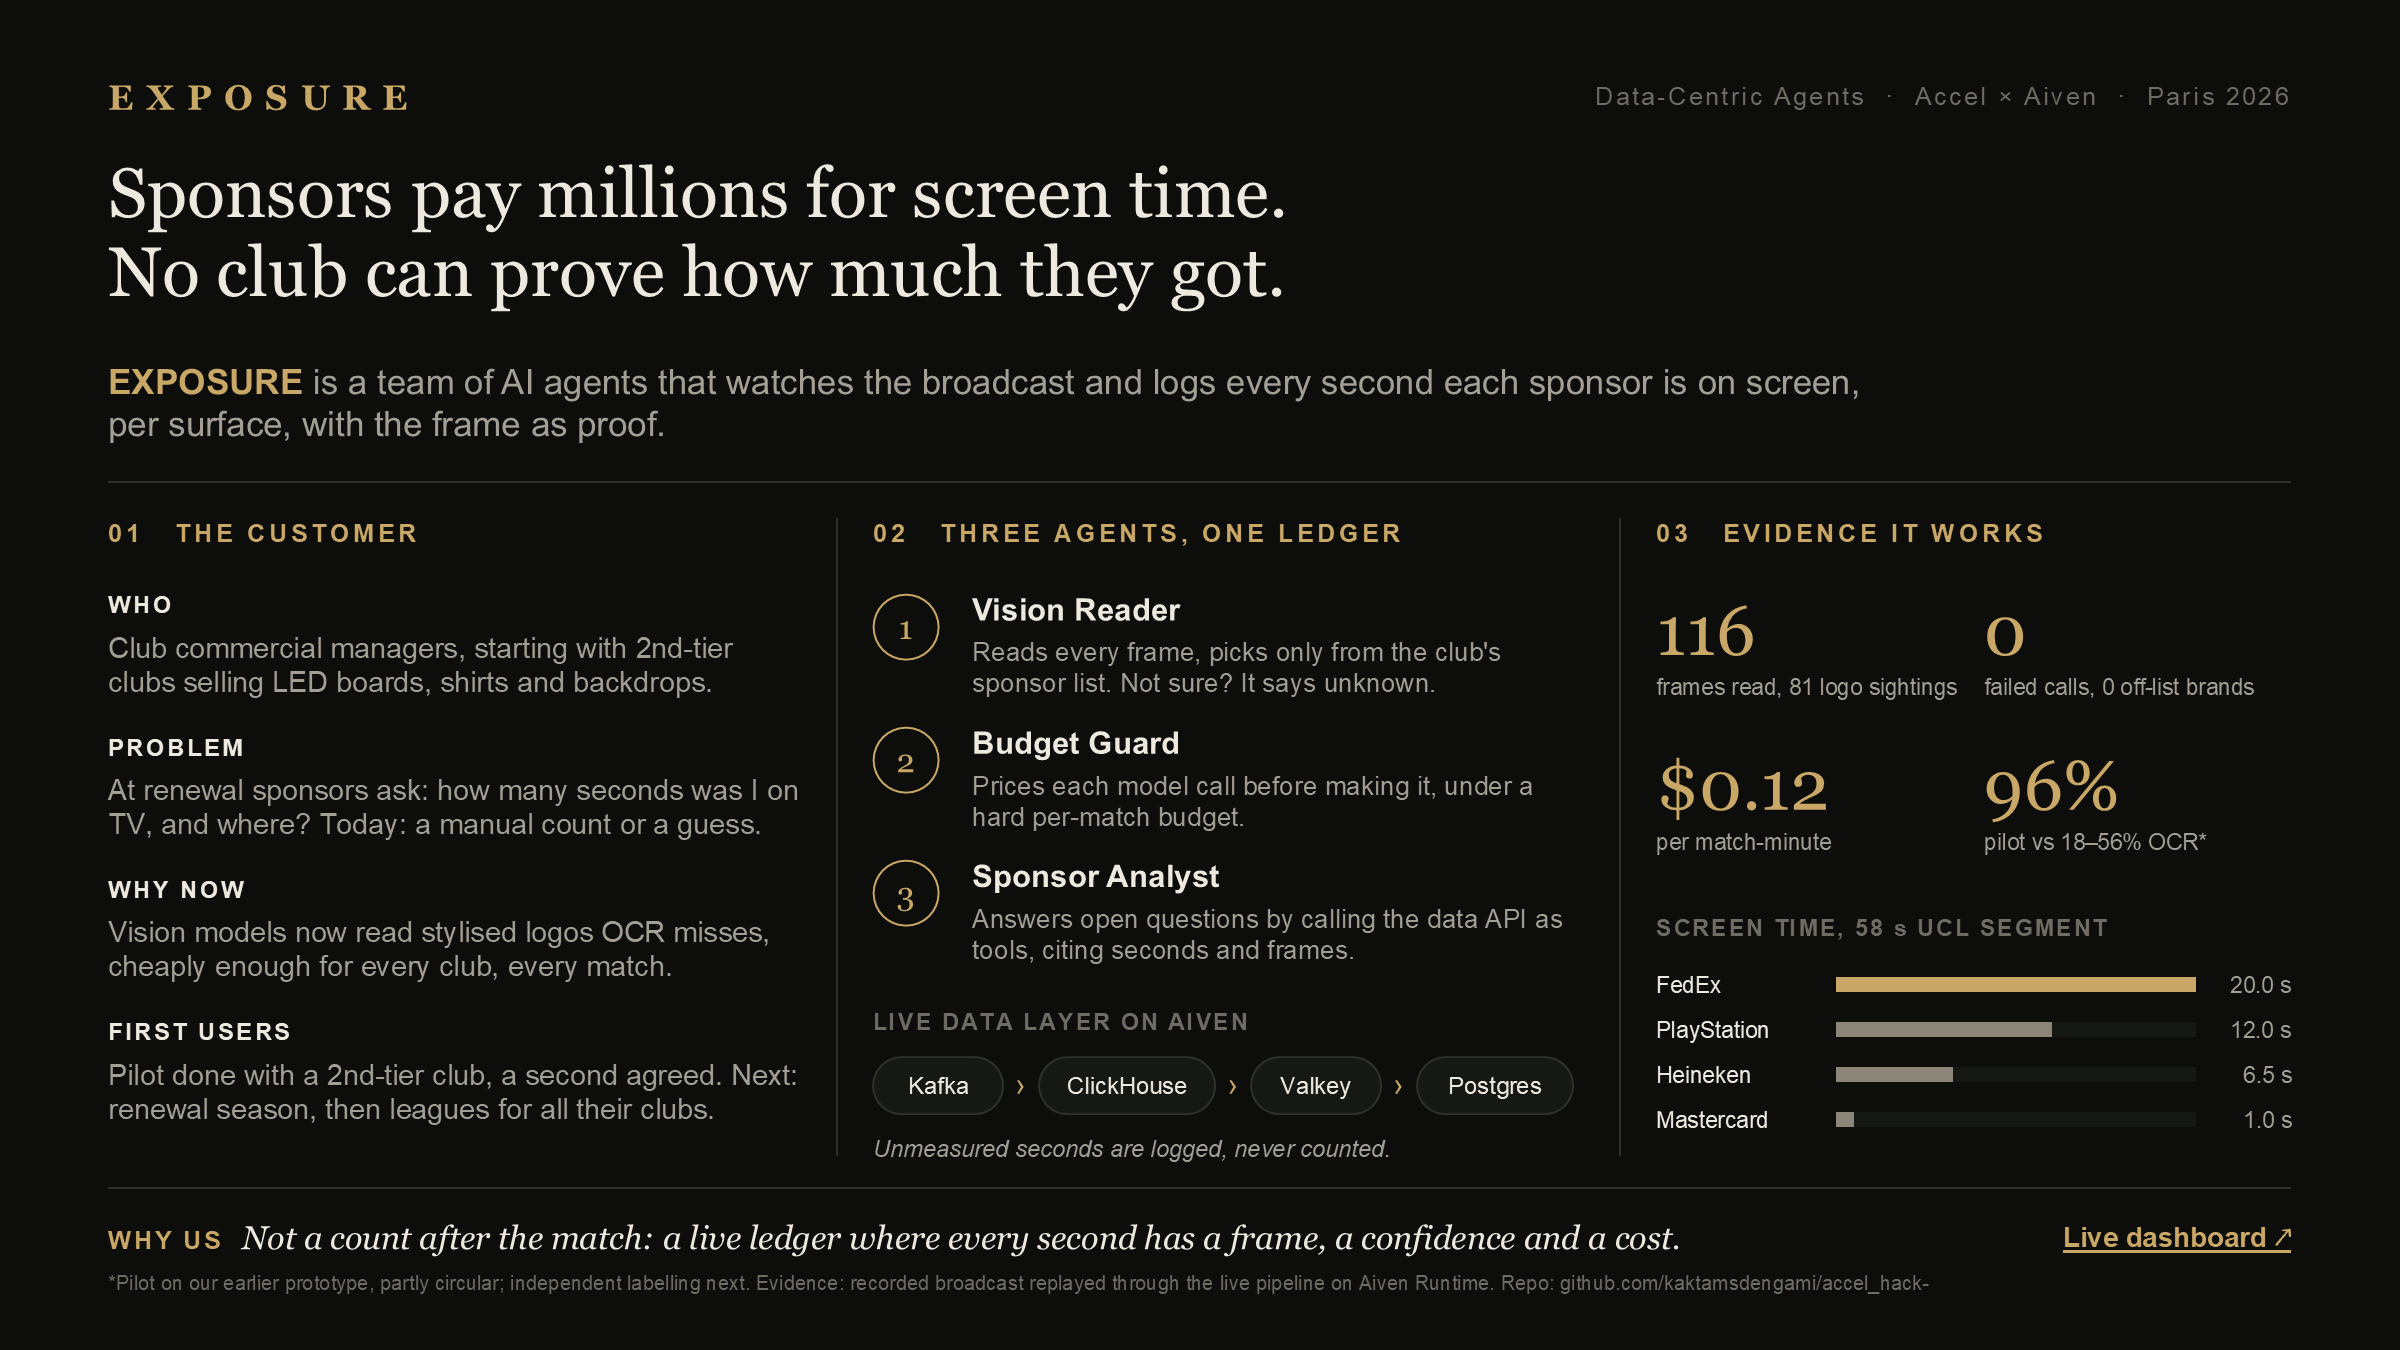
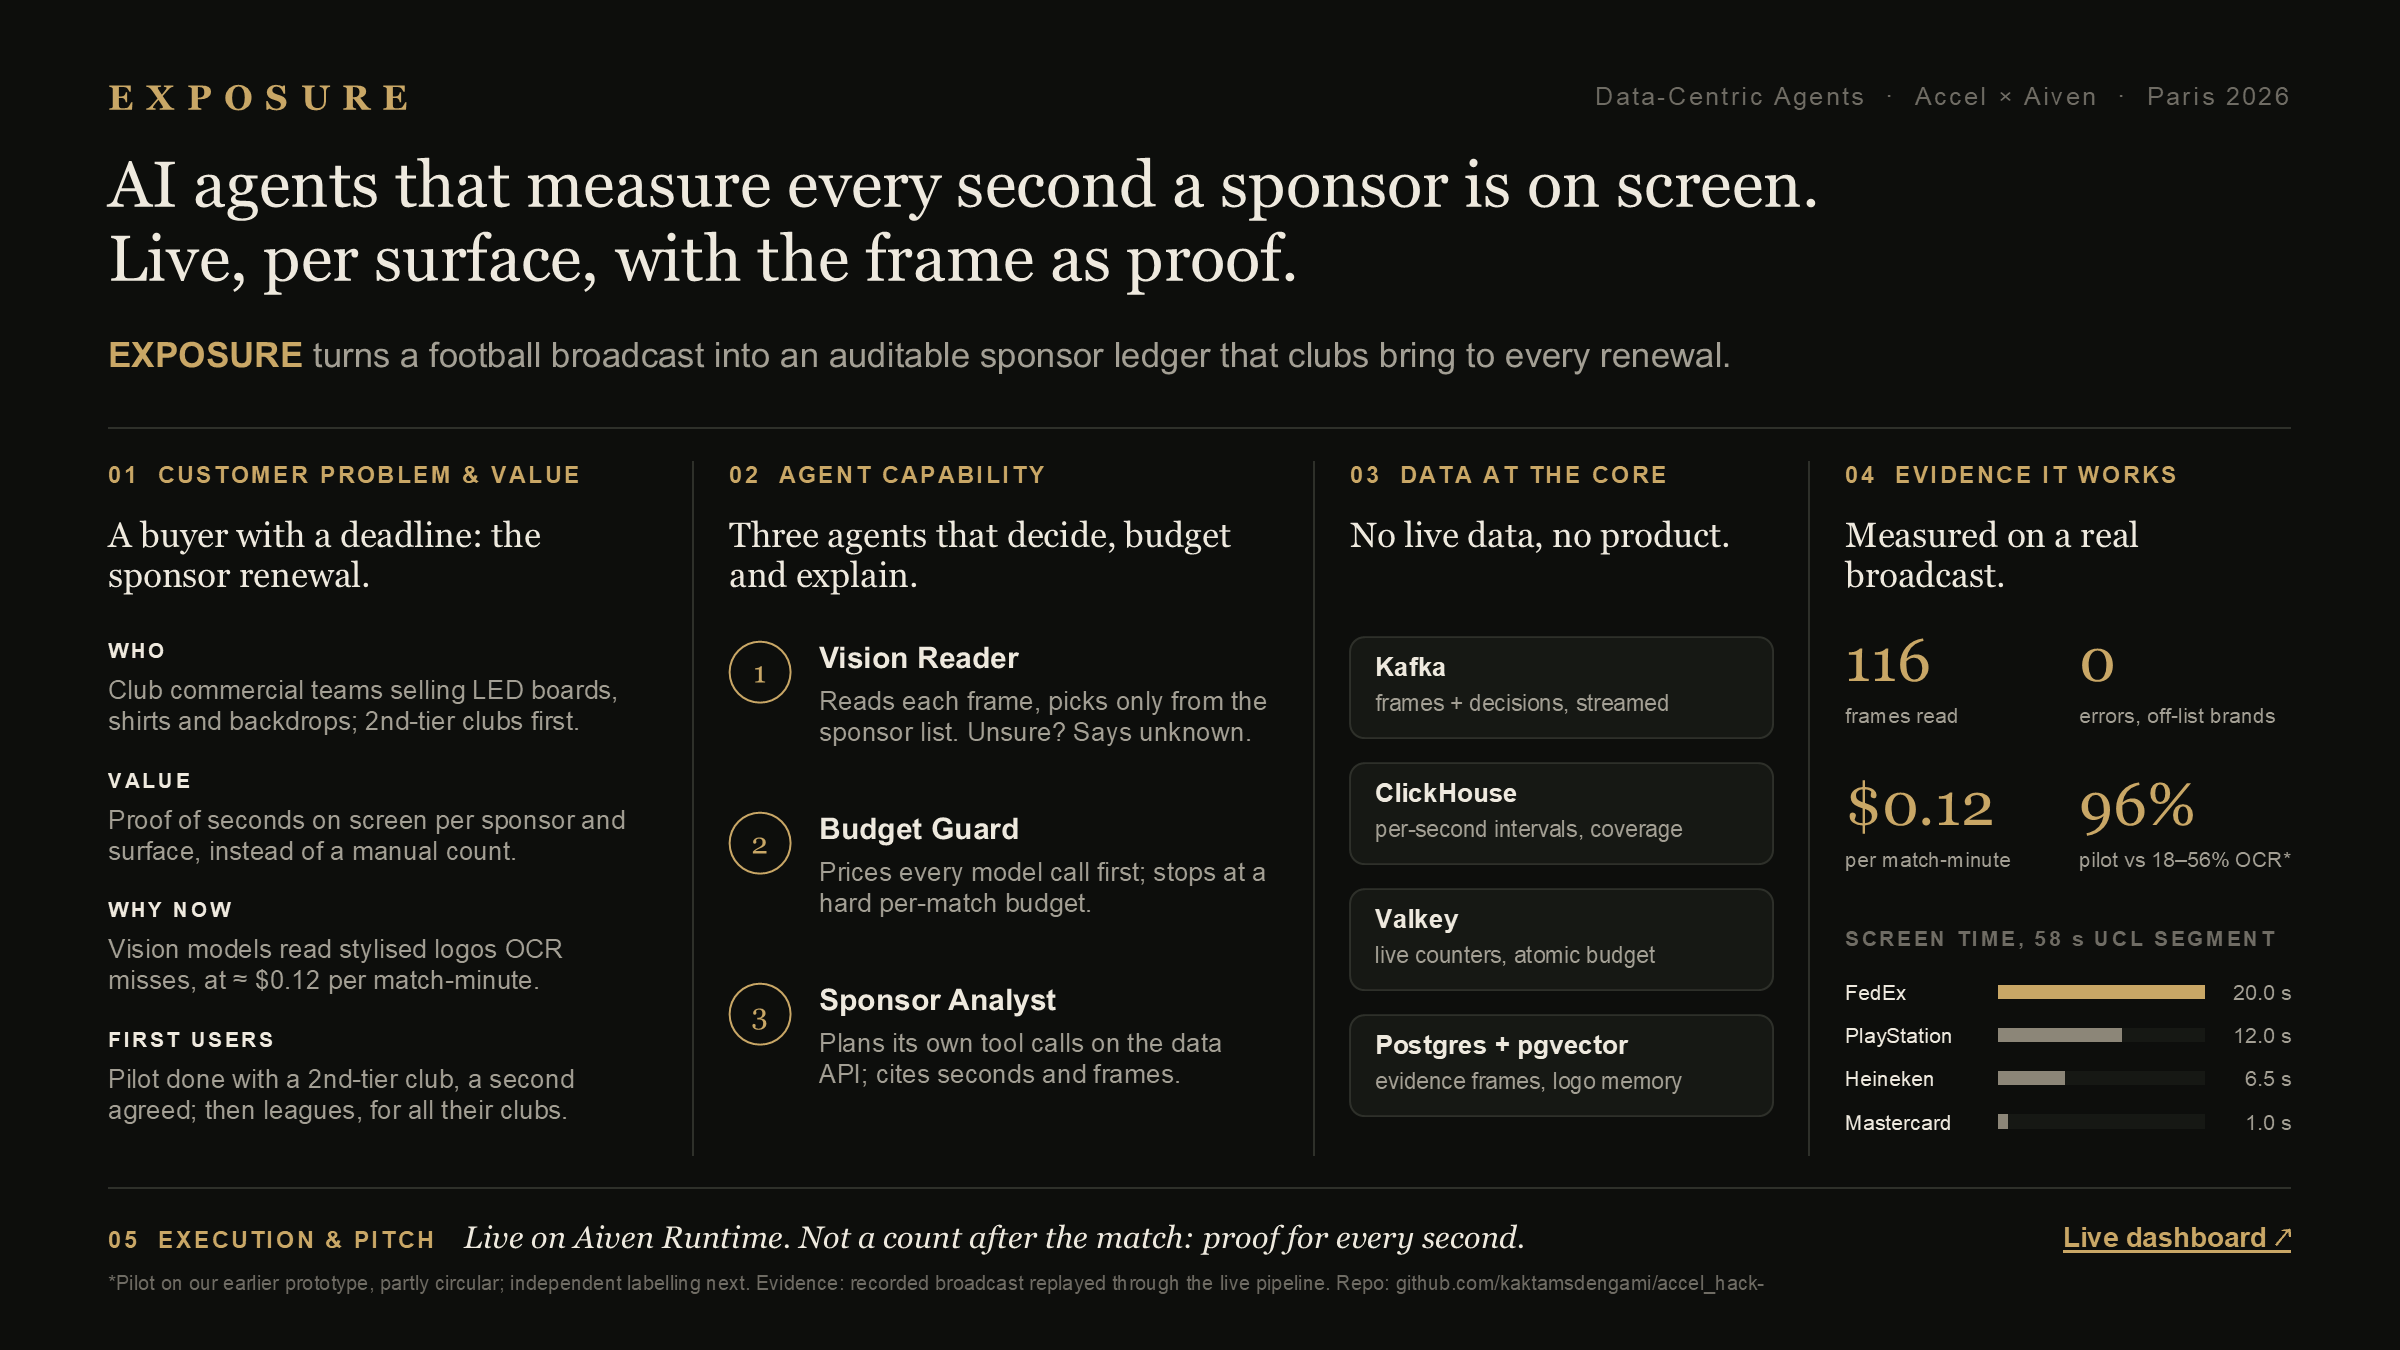
Pitch slide: one column per judging criterion, product-first headline (#60)

diff --git a/scripts/pitch_slide.js b/scripts/pitch_slide.js
@@ -1,17 +1,18 @@
-// One-slide pitch (docs/pitch-slide.pptx). Numbers: eval/runs/20261022T113439Z-ucl-vision-run.json.
+// One-slide pitch (docs/pitch-slide.pptx), one column per judging criterion.
+// Numbers: eval/runs/20261022T113439Z-ucl-vision-run.json.
 // Run: NODE_PATH=<dir with pptxgenjs+jszip> SKILL_DIR=<pptx skill dir> node scripts/pitch_slide.js docs/pitch-slide.pptx
 // Then import into Google Slides and share "Anyone with the link can view".
 const pptxgen = require("pptxgenjs");
 const { applyTheme } = require(process.env.SKILL_DIR + "/scripts/apply_theme.js");
 
 const INK = "0D0E0C", PANEL = "161814", LINE = "2E302A", IVORY = "EEE9DE",
-      MUTED = "A39F94", DIM = "6F6C64", GOLD = "C9A766";
+      MUTED = "A39F94", DIM = "6F6C64", GOLD = "C9A766", BAR = "8C8678";
 const HEAD = "Georgia", BODY = "Arial";
 
 const THEME = {
   name: "Exposure",
   headFontFace: HEAD, bodyFontFace: BODY,
-  colors: { dk1: INK, lt1: IVORY, dk2: PANEL, lt2: MUTED, accent1: GOLD, accent2: "8C8678",
+  colors: { dk1: INK, lt1: IVORY, dk2: PANEL, lt2: MUTED, accent1: GOLD, accent2: BAR,
             accent3: LINE, accent4: DIM, accent5: "B8B2A4", accent6: "5A5850", hlink: GOLD, folHlink: MUTED },
 };
 
@@ -30,93 +31,101 @@ const THEME = {
   t("EXPOSURE", { x: 0.6, y: 0.42, w: 3, h: 0.3, fontFace: HEAD, fontSize: 14, bold: true, color: GOLD, charSpacing: 5 });
   t("Data-Centric Agents  ·  Accel × Aiven  ·  Paris 2026", { x: 6.8, y: 0.45, w: 5.93, h: 0.3, fontSize: 10, color: DIM, align: "right", charSpacing: 1 });
 
-  // Headline + promise
-  t("Sponsors pay millions for screen time.\nNo club can prove how much they got.", {
-    x: 0.6, y: 0.85, w: 9.5, h: 1.05, fontFace: HEAD, fontSize: 28, color: IVORY, lineSpacingMultiple: 0.95 });
+  // Headline: what we do
+  t("AI agents that measure every second a sponsor is on screen.\nLive, per surface, with the frame as proof.", {
+    x: 0.6, y: 0.82, w: 12.13, h: 0.95, fontFace: HEAD, fontSize: 26, color: IVORY, lineSpacingMultiple: 0.95 });
   t([
     { text: "EXPOSURE", options: { bold: true, color: GOLD } },
-    { text: " is a team of AI agents that watches the broadcast and logs every second each sponsor is on screen, per surface, with the frame as proof." },
-  ], { x: 0.6, y: 2.0, w: 9.8, h: 0.5, fontSize: 14, color: MUTED });
+    { text: " turns a football broadcast into an auditable sponsor ledger that clubs bring to every renewal." },
+  ], { x: 0.6, y: 1.85, w: 12.13, h: 0.3, fontSize: 14, color: MUTED });
 
-  line(0.6, 2.68, 12.13, 0);
+  line(0.6, 2.38, 12.13, 0);
 
-  // Column geometry
-  const top = 2.88, bottom = 6.42;
-  const c1 = { x: 0.6, w: 3.85 }, c2 = { x: 4.85, w: 3.95 }, c3 = { x: 9.2, w: 3.53 };
-  line(4.65, top, 0, bottom - top);
-  line(9.0, top, 0, bottom - top);
-  const header = (c, n, label) => t(`${n}   ${label}`, { x: c.x, y: top, w: c.w, h: 0.25, fontSize: 10, bold: true, color: GOLD, charSpacing: 1.5 });
+  // Four columns, one per judging criterion: label, one-line answer, proof
+  const top = 2.56, bottom = 6.42, gap = 0.4;
+  const widths = [3.05, 3.05, 2.35, 2.48];
+  const cols = []; let cx = 0.6;
+  widths.forEach((w, i) => { cols.push({ x: cx, w }); cx += w + gap; if (i < 3) line(cx - gap / 2, top, 0, bottom - top); });
+  const [c1, c2, c3, c4] = cols;
+  const body = top + 0.98;
+  const criterion = (c, n, label, answer) => {
+    t(`${n}  ${label}`, { x: c.x, y: top, w: c.w, h: 0.22, fontSize: 9, bold: true, color: GOLD, charSpacing: 1.2 });
+    t(answer, { x: c.x, y: top + 0.3, w: c.w, h: 0.58, fontFace: HEAD, fontSize: 14, color: IVORY, lineSpacingMultiple: 0.95 });
+  };
 
-  // 01 Customer
-  header(c1, "01", "THE CUSTOMER");
+  // 01 Customer problem & value
+  criterion(c1, "01", "CUSTOMER PROBLEM & VALUE", "A buyer with a deadline: the sponsor renewal.");
   const blocks = [
-    ["Who", "Club commercial managers, starting with 2nd-tier clubs selling LED boards, shirts and backdrops."],
-    ["Problem", "At renewal sponsors ask: how many seconds was I on TV, and where? Today: a manual count or a guess."],
-    ["Why now", "Vision models now read stylised logos OCR misses, cheaply enough for every club, every match."],
-    ["First users", "Pilot done with a 2nd-tier club, a second agreed. Next: renewal season, then leagues for all their clubs."],
+    ["Who", "Club commercial teams selling LED boards, shirts and backdrops; 2nd-tier clubs first."],
+    ["Value", "Proof of seconds on screen per sponsor and surface, instead of a manual count."],
+    ["Why now", "Vision models read stylised logos OCR misses, at ≈ $0.12 per match-minute."],
+    ["First users", "Pilot done with a 2nd-tier club, a second agreed; then leagues, for all their clubs."],
   ];
   blocks.forEach(([k, v], i) => {
-    const y = top + 0.4 + i * 0.79;
-    t(k.toUpperCase(), { x: c1.x, y, w: c1.w, h: 0.2, fontSize: 9.5, bold: true, color: IVORY, charSpacing: 1 });
-    t(v, { x: c1.x, y: y + 0.22, w: c1.w, h: 0.55, fontSize: 11.5, color: MUTED, lineSpacingMultiple: 1.0 });
+    const y = body + i * 0.72;
+    t(k.toUpperCase(), { x: c1.x, y, w: c1.w, h: 0.18, fontSize: 8.5, bold: true, color: IVORY, charSpacing: 1 });
+    t(v, { x: c1.x, y: y + 0.2, w: c1.w, h: 0.48, fontSize: 10.5, color: MUTED });
   });
 
-  // 02 Agents
-  header(c2, "02", "THREE AGENTS, ONE LEDGER");
+  // 02 Agent capability
+  criterion(c2, "02", "AGENT CAPABILITY", "Three agents that decide, budget and explain.");
   const agents = [
-    ["Vision Reader", "Reads every frame, picks only from the club's sponsor list. Not sure? It says unknown."],
-    ["Budget Guard", "Prices each model call before making it, under a hard per-match budget."],
-    ["Sponsor Analyst", "Answers open questions by calling the data API as tools, citing seconds and frames."],
+    ["Vision Reader", "Reads each frame, picks only from the sponsor list. Unsure? Says unknown."],
+    ["Budget Guard", "Prices every model call first; stops at a hard per-match budget."],
+    ["Sponsor Analyst", "Plans its own tool calls on the data API; cites seconds and frames."],
   ];
   agents.forEach(([name, desc], i) => {
-    const y = top + 0.42 + i * 0.74;
-    s.addShape(pres.shapes.OVAL, { x: c2.x, y, w: 0.36, h: 0.36, fill: { color: INK }, line: { color: GOLD, width: 1 } });
-    t(String(i + 1), { x: c2.x, y: y + 0.03, w: 0.36, h: 0.3, fontFace: HEAD, fontSize: 13, color: GOLD, align: "center", valign: "middle" });
-    t(name, { x: c2.x + 0.55, y: y - 0.02, w: c2.w - 0.55, h: 0.24, fontSize: 12.5, bold: true, color: IVORY });
-    t(desc, { x: c2.x + 0.55, y: y + 0.23, w: c2.w - 0.55, h: 0.45, fontSize: 10.5, color: MUTED });
+    const y = body + 0.02 + i * 0.95;
+    s.addShape(pres.shapes.OVAL, { x: c2.x, y, w: 0.34, h: 0.34, fill: { color: INK }, line: { color: GOLD, width: 1 } });
+    t(String(i + 1), { x: c2.x, y: y + 0.02, w: 0.34, h: 0.3, fontFace: HEAD, fontSize: 12, color: GOLD, align: "center", valign: "middle" });
+    t(name, { x: c2.x + 0.5, y: y - 0.01, w: c2.w - 0.5, h: 0.24, fontSize: 12, bold: true, color: IVORY });
+    t(desc, { x: c2.x + 0.5, y: y + 0.24, w: c2.w - 0.5, h: 0.6, fontSize: 10.5, color: MUTED });
   });
-  // Data rail
-  const ry = top + 2.72;
-  t("LIVE DATA LAYER ON AIVEN", { x: c2.x, y: ry, w: c2.w, h: 0.2, fontSize: 9, bold: true, color: DIM, charSpacing: 1 });
-  const pills = [["Kafka", 0.72], ["ClickHouse", 0.98], ["Valkey", 0.72], ["Postgres", 0.87]];
-  let px = c2.x;
-  pills.forEach(([name, w], i) => {
-    s.addShape(pres.shapes.ROUNDED_RECTANGLE, { x: px, y: ry + 0.27, w, h: 0.32, rectRadius: 0.16, fill: { color: PANEL }, line: { color: LINE, width: 0.75 } });
-    t(name, { x: px, y: ry + 0.27, w, h: 0.32, fontSize: 9.5, color: IVORY, align: "center", valign: "middle" });
-    px += w;
-    if (i < pills.length - 1) { t("›", { x: px, y: ry + 0.26, w: 0.2, h: 0.32, fontSize: 12, color: GOLD, align: "center", valign: "middle" }); px += 0.2; }
-  });
-  t("Unmeasured seconds are logged, never counted.", { x: c2.x, y: ry + 0.7, w: c2.w, h: 0.25, fontSize: 9.5, italic: true, color: MUTED });
 
-  // 03 Evidence
-  header(c3, "03", "EVIDENCE IT WORKS");
-  const stats = [["116", "frames read, 81 logo sightings"], ["0", "failed calls, 0 off-list brands"], ["$0.12", "per match-minute"], ["96%", "pilot vs 18–56% OCR*"]];
+  // 03 Data at the core
+  criterion(c3, "03", "DATA AT THE CORE", "No live data, no product.");
+  const stack = [
+    ["Kafka", "frames + decisions, streamed"],
+    ["ClickHouse", "per-second intervals, coverage"],
+    ["Valkey", "live counters, atomic budget"],
+    ["Postgres + pgvector", "evidence frames, logo memory"],
+  ];
+  stack.forEach(([name, role], i) => {
+    const y = body + i * 0.7;
+    s.addShape(pres.shapes.ROUNDED_RECTANGLE, { x: c3.x, y, w: c3.w, h: 0.56, rectRadius: 0.08, fill: { color: PANEL }, line: { color: LINE, width: 0.75 } });
+    t(name, { x: c3.x + 0.14, y: y + 0.07, w: c3.w - 0.28, h: 0.2, fontSize: 10.5, bold: true, color: IVORY });
+    t(role, { x: c3.x + 0.14, y: y + 0.29, w: c3.w - 0.28, h: 0.2, fontSize: 9, color: MUTED });
+  });
+
+  // 04 Evidence it works
+  criterion(c4, "04", "EVIDENCE IT WORKS", "Measured on a real broadcast.");
+  const stats = [["116", "frames read"], ["0", "errors, off-list brands"], ["$0.12", "per match-minute"], ["96%", "pilot vs 18–56% OCR*"]];
   stats.forEach(([n, l], i) => {
-    const x = c3.x + (i % 2) * 1.82, y = top + 0.38 + Math.floor(i / 2) * 0.86;
-    t(n, { x, y, w: 1.7, h: 0.48, fontFace: HEAD, fontSize: 28, color: GOLD });
-    t(l, { x, y: y + 0.48, w: 1.68, h: 0.34, fontSize: 9, color: MUTED });
+    const x = c4.x + (i % 2) * 1.3, y = body - 0.08 + Math.floor(i / 2) * 0.8;
+    t(n, { x, y, w: 1.25, h: 0.44, fontFace: HEAD, fontSize: 24, color: GOLD });
+    t(l, { x, y: y + 0.44, w: 1.2, h: 0.3, fontSize: 8.5, color: MUTED });
   });
-  const by = top + 2.2;
-  t("SCREEN TIME, 58 s UCL SEGMENT", { x: c3.x, y: by, w: c3.w, h: 0.2, fontSize: 9, bold: true, color: DIM, charSpacing: 1 });
+  const by = body + 1.6;
+  t("SCREEN TIME, 58 s UCL SEGMENT", { x: c4.x, y: by, w: c4.w, h: 0.2, fontSize: 8.5, bold: true, color: DIM, charSpacing: 1 });
   const bars = [["FedEx", 20.0], ["PlayStation", 12.0], ["Heineken", 6.5], ["Mastercard", 1.0]];
-  const trackX = c3.x + 1.0, trackW = 2.0;
+  const trackX = c4.x + 0.85, trackW = 1.15;
   bars.forEach(([b, v], i) => {
-    const y = by + 0.3 + i * 0.25;
-    t(b, { x: c3.x, y, w: 0.95, h: 0.18, fontSize: 9, color: IVORY, valign: "middle" });
+    const y = by + 0.28 + i * 0.24;
+    t(b, { x: c4.x, y, w: 0.82, h: 0.18, fontSize: 8.5, color: IVORY, valign: "middle" });
     s.addShape(pres.shapes.RECTANGLE, { x: trackX, y: y + 0.05, w: trackW, h: 0.08, fill: { color: PANEL }, line: { type: "none" } });
-    s.addShape(pres.shapes.RECTANGLE, { x: trackX, y: y + 0.05, w: Math.max(0.04, trackW * v / 20), h: 0.08, fill: { color: i === 0 ? GOLD : "8C8678" }, line: { type: "none" } });
-    t(`${v.toFixed(1)} s`, { x: trackX + trackW + 0.08, y, w: 0.45, h: 0.18, fontSize: 9, color: MUTED, align: "right", valign: "middle" });
+    s.addShape(pres.shapes.RECTANGLE, { x: trackX, y: y + 0.05, w: Math.max(0.04, trackW * v / 20), h: 0.08, fill: { color: i === 0 ? GOLD : BAR }, line: { type: "none" } });
+    t(`${v.toFixed(1)} s`, { x: trackX + trackW + 0.05, y, w: 0.43, h: 0.18, fontSize: 8.5, color: MUTED, align: "right", valign: "middle" });
   });
 
-  // Footer: difference + honesty
+  // 05 Execution & pitch
   line(0.6, 6.6, 12.13, 0);
   t([
-    { text: "WHY US  ", options: { bold: true, color: GOLD, charSpacing: 1, fontSize: 10 } },
-    { text: "Not a count after the match: a live ledger where every second has a frame, a confidence and a cost.", options: { fontFace: HEAD, italic: true, fontSize: 13, color: IVORY } },
-  ], { x: 0.6, y: 6.72, w: 9.4, h: 0.3, valign: "middle" });
-  t("*Pilot on our earlier prototype, partly circular; independent labelling next. Evidence: recorded broadcast replayed through the live pipeline on Aiven Runtime. Repo: github.com/kaktamsdengami/accel_hack-",
+    { text: "05  EXECUTION & PITCH   ", options: { bold: true, color: GOLD, charSpacing: 1.2, fontSize: 9 } },
+    { text: "Live on Aiven Runtime. Not a count after the match: proof for every second.", options: { fontFace: HEAD, italic: true, fontSize: 12.5, color: IVORY } },
+  ], { x: 0.6, y: 6.72, w: 10.2, h: 0.3, valign: "middle" });
+  t("*Pilot on our earlier prototype, partly circular; independent labelling next. Evidence: recorded broadcast replayed through the live pipeline. Repo: github.com/kaktamsdengami/accel_hack-",
     { x: 0.6, y: 7.06, w: 12.13, h: 0.22, fontSize: 8, color: DIM });
-  t("Live dashboard ↗", { x: 10.4, y: 6.72, w: 2.33, h: 0.3, fontSize: 11, bold: true, color: GOLD, align: "right", valign: "middle",
+  t("Live dashboard ↗", { x: 10.9, y: 6.72, w: 1.83, h: 0.3, fontSize: 11, bold: true, color: GOLD, align: "right", valign: "middle",
     hyperlink: { url: "https://pixel-perfect-recreation-849.lovable.app/dashboard?match=m-ucl-demo" } });
 
   const out = process.argv[2];
